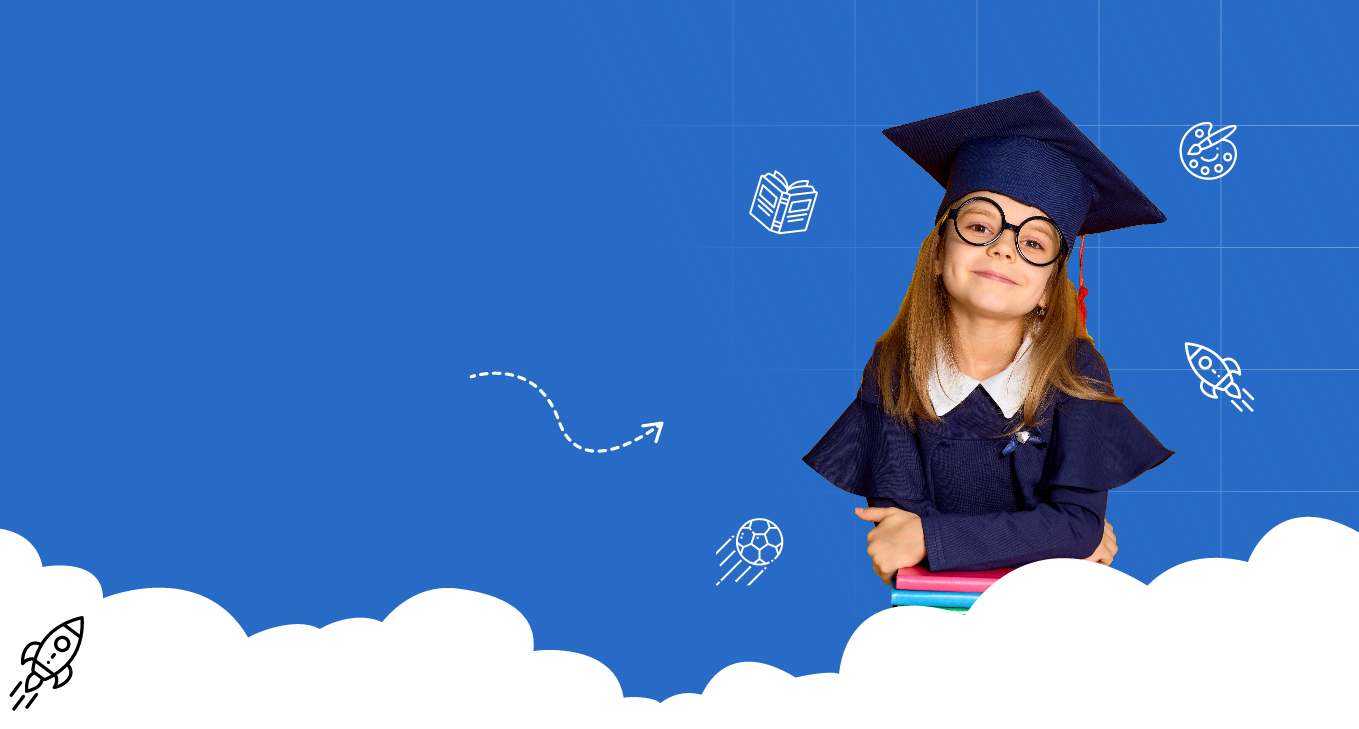
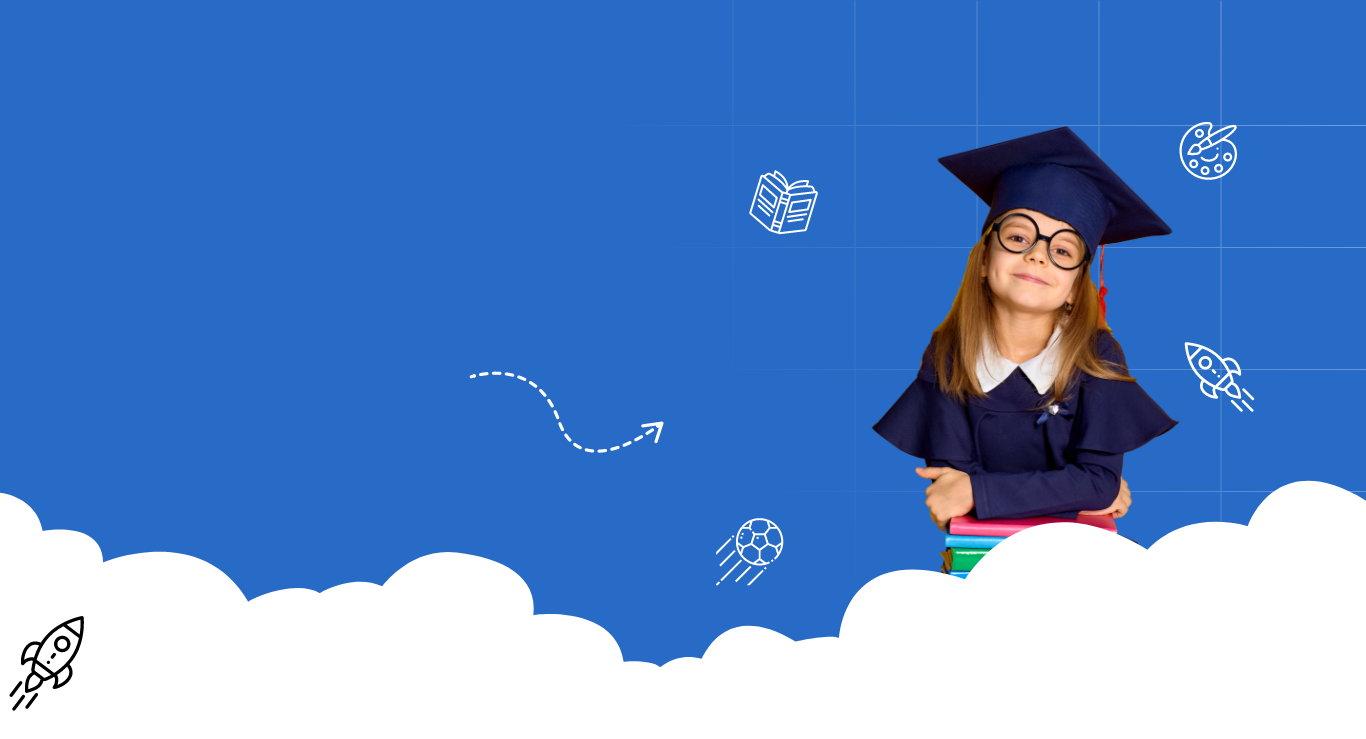
home,header and footer design

diff --git a/src/app/modules/home/home.component.scss b/src/app/modules/home/home.component.scss
@@ -1,38 +1,54 @@
-.navbar {
-    background-color: #fff;
-    position: fixed;
+// .navbar {
+//     background-color: #fff;
+//     position: fixed;
+//     width: 100%;
+//     z-index: 999999 !important;
+//     top: 0;
+// }
+
+// .navbar .navbar-nav .nav-link {
+//     margin-inline: 15px;
+//     color: #707070;
+//     border-bottom: solid 2px transparent;
+// }
+
+// .navbar .navbar-nav .nav-link:hover,
+// nav .navbar-nav .nav-link.active {
+//     margin-inline: 15px;
+//     color: var(--main-color);
+//     border-bottom: solid 2px var(--main-color);
+// }
+
+// .navbar nav .logo {
+//     width: 160px;
+//     height: 53px;
+// }
+
+#bg-home-section {
+    height: 100vh;
+    min-height: 705px;
+    display: flex;
+    flex-direction: column;
+    justify-content: center;
+}
+
+.home-banner {
     width: 100%;
-    z-index: 999999 !important;
-    top: 0;
+    background-image: url("../../../assets/images/home-page/Home-image.png");
+    background-repeat: no-repeat;
+    background-size: cover;
+    margin-top: 32px;
 }
 
-.navbar .navbar-nav .nav-link {
-    margin-inline: 15px;
-    color: #707070;
-    border-bottom: solid 2px transparent;
+.home-banner .home-discription-discription {
+    font-size: 1.1rem;
 }
 
-.navbar .navbar-nav .nav-link:hover,
-nav .navbar-nav .nav-link.active {
-    margin-inline: 15px;
+.home-banner .text-other {
     color: var(--main-color);
-    border-bottom: solid 2px var(--main-color);
 }
 
-.navbar nav .logo {
-    width: 160px;
-    height: 53px;
-}
-
-.azadi-logo {
-    width: 80px !important;
-}
-
-.swachh-bhara-logo {
-    width: 80px !important;
-}
-
-.btn-login {
+.home-banner .home-discription .btn-login {
     background-color: var(--main-color);
     border-radius: 30px;
     padding: 10px 36px !important;
@@ -46,38 +62,18 @@ nav .navbar-nav .nav-link.active {
     align-items: center;
 }
 
-.header h1 ,
+.home-banner h1,
 .ministers-information h1,
 .ministers h1,
-.about-section h1{
+.about-section h1 {
     font-size: 2.5rem;
     font-weight: 600;
-}
-
-.header {
-    width: 100%;
-    min-height: 100vh;
-    background-image: url("../../../assets/images/home-page/Home-image.png");
-    background-position: center center;
-    background-repeat: no-repeat;
-    background-size: cover;
-    margin-top: 32px;
-    display: flex;
-    flex-direction: column;
-    justify-content: center;
-}
-
-
-.header .header-discription {
-    font-size: 1.1rem;
-}
-
-.header .text-other {
-    color: var(--main-color);
+    color: #122361;
 }
 
 .ministers .plain-card {
-    box-shadow: 0 .5rem 1rem rgba(0, 0, 0, .15)!important;
+    box-shadow: -1px 1px 8px 4px rgba(0, 0, 0, 0.105)!important;
+    border-radius: 15px;
 }
 
 .ministers .card-body {
@@ -104,16 +100,7 @@ nav .navbar-nav .nav-link.active {
 .about-section,
 .ministers-information,
 .testimonials-section {
-    padding-block: 40px;
-}
-
-.about-section ol {
-    padding-left: 25px;
-} 
-
-.about-section ol li {
-    font-size: 1rem;
-    justify-content: right;
+    padding-block: 50px;
 }
 
 .about-section p {
@@ -123,7 +110,8 @@ nav .navbar-nav .nav-link.active {
 }
 
 .about-section .about-student-img {
-    height: 450px;
+    width: 100%;
+    margin-left: 21%;
 }
 
 .app-section {
@@ -238,20 +226,20 @@ footer .input-group button {
 }
 
 @media screen and (max-width: 480px) {
-    .header {
+    .home-banner {
         padding-top: 60px;
     }
 
-    .header h1 {
+    .home-banner h1 {
         font-size: 1.8rem;
         font-weight: 700;
     }
 
-    .header img {
+    .home-banner img {
         height: 200px;
     }
 
-    .header .header-discription {
+    .home-banner .home-banner-discription {
         font-size: 0.75rem;
     }
 
@@ -289,6 +277,7 @@ footer .input-group button {
         flex-direction: column;
         flex-grow: unset;
     }
+
     .btn-login {
         background-color: var(--main-color);
         border-radius: 30px;

diff --git a/src/app/modules/home/home.component.html b/src/app/modules/home/home.component.html
@@ -1,9 +1,9 @@
 <div class="p-0 bg-white">
-    <div class="header">
+    <div id="bg-home-section" class="home-banner">
         <div class="container">
-            <div class="row align-items-center justify-content-center">
-                <div class="col-sm-6">
-                    <div class="header-discription">
+            <div class="row">
+                <div class="col-sm-6 d-flex flex-column justify-content-center">
+                    <div class="home-discription">
                         <h4 class="text-muted mb-3">सारे शिकूया, पुढे जाऊया</h4>
                         <h1>एक एक अक्षर <span class="text-other">शिकूया</span>,</h1>
                         <h1><span class="text-other">ज्ञानाचा</span> शिखर चढूया</h1>
@@ -15,8 +15,7 @@
                             मोबाईल
                             अँप व वेब पोर्टल वरून ऑनलाईन रित्या करता येऊ शकते ह्या हेतूने हे ऑनलाईन
                             पोर्टल बनविले आहे.</p>
-                        <button
-                            class="btn-main btn btn-login  justify-content-center  d-flex align-items-center mx-auto mx-lg-0"
+                        <button class="btn-main btn btn-login d-flex justify-content-center align-items-center mx-auto mx-lg-0"
                             routerLink="/about-us">
                             अधिक वाचा
                         </button>
@@ -30,7 +29,7 @@
     </div>
     <div class="container">
         <div class="ministers-information">
-            <div class="row g-3 align-items-center">
+            <div class="row g-3 justify-content-center align-items-center">
                 <div class="col-sm-6">
                     <h1 class="mb-0 pe-5">Lorem Ipsum is simply dummy text of the printing and</h1>
                 </div>
@@ -58,6 +57,7 @@
                 </div>
             </div>
         </div>
+
         <div class="ministers">
             <div class="row g-3">
                 <div class="col-sm-3">
@@ -102,8 +102,9 @@
                 </div>
             </div>
         </div>
+
         <div class="about-section mx-0">
-            <div class="row gx-lg-1 text-start justify-content-center align-items-center">
+            <div class="row gx-lg-1 text-start align-items-center">
                 <div class="col-sm-6 col-12">
                     <h1>Lorem Ipsum is simply dummy text of the printing</h1>
                     <p class="text-muted">Lorem Ipsum is simply dummy text of the printing and typesetting industry.
@@ -115,8 +116,8 @@
                         अधिक वाचा
                     </button> -->
                 </div>
-                <div class="col-sm-6 col-12 d-flex justify-content-center mb-3 text-end">
-                    <img src="../../../assets/images/home-page/About-Image.png" alt="" class="about-student-img">
+                <div class="col-sm-6 col-12">
+                    <img src="../../../assets/images/home-page/About-Image.png"  class="about-student-img">
                 </div>
             </div>
         </div>

diff --git a/src/app/layouts/public/web-footer/web-footer.component.html b/src/app/layouts/public/web-footer/web-footer.component.html
@@ -13,11 +13,13 @@
                     <a routerLink="./help">Help</a>
                     <a routerLink="./privacy-policy">Privacy Policy</a>
                 </div> -->
-               
+
             </div>
             <div class="col-sm-3 col-6">
                 <ul>
-                    <li><h6 class=" mb-0">Explore</h6></li>
+                    <li>
+                        <h6 class=" mb-0">Explore</h6>
+                    </li>
                     <li><a href="#">Gallery</a></li>
                     <li><a href="#">News & Articles</a></li>
                     <li><a href="#">FAQ's</a></li>
@@ -27,7 +29,9 @@
             </div>
             <div class="col-sm col-6">
                 <ul>
-                    <li><h6 class=" mb-0">Links</h6></li>
+                    <li>
+                        <h6 class=" mb-0">Links</h6>
+                    </li>
                     <li><a routerLink="./home">Home</a></li>
                     <li><a routerLink="./about-us">About Us</a></li>
                     <li><a routerLink="./contact-us">Contact Us</a></li>
@@ -38,23 +42,24 @@
             </div>
             <div class="col-sm col-6">
                 <ul>
-                    <li><h6 class=" mb-0">Contact</h6></li>
+                    <li>
+                        <h6 class=" mb-0">Contact</h6>
+                    </li>
                     <li><a href="#">+91 9876543210</a></li>
                     <li><a href="#">con@gmail.com</a></li>
                     <li><a href="#">Shankarsheth Road,Swargate, Pune, 411037</a></li>
                 </ul>
             </div>
-            <div class="col-sm-12">
-                <div class="d-flex justify-content-between align-items-center">
-                    <p class="small mb-0 pt-0 mt-0">© {{currentYear}} Satara, All Rights Reserved.</p>
-                    <div class="footer-stpl-logo mx-auto mx-lg-0">
-                        <a class="nav-link" href="http://shauryatechnosoft.com" target="_blank">
-                            <span>Powered By -</span>
-                            <img src="assets/images/stplwhitelogo.svg" class="stpl-logo text-end">
-                        </a>
-                    </div>
-                </div>
+        </div>
+        <div class="sub-footer">
+            <p class="small mb-0 pt-0 mt-0">© {{currentYear}} Satara, All Rights Reserved.</p>
+            <div class="footer-stpl-logo mx-auto mx-lg-0">
+                <a class="nav-link" href="http://shauryatechnosoft.com" target="_blank">
+                    <span>Powered By -</span>
+                    <img src="assets/images/stplwhitelogo.svg" class="stpl-logo text-end">
+                </a>
             </div>
         </div>
     </div>
 </footer>
+    

diff --git a/src/app/layouts/public/web-header/web-header.component.html b/src/app/layouts/public/web-header/web-header.component.html
@@ -24,7 +24,7 @@
             </div>
         </div>
     </div>
-    <nav class="navbar p-2 navbar-expand-lg" id="navbar">
+    <nav class="navbar py-0 navbar-expand-lg" id="navbar">
         <div class="container">
             <a class="navbar-brand" href="#">
                 <img src="../../../../assets/images/ZpSatara-Logo.svg" width="80px" height="45px" class="logo">

diff --git a/src/app/layouts/public/web-footer/web-footer.component.scss b/src/app/layouts/public/web-footer/web-footer.component.scss
@@ -92,6 +92,13 @@ footer .input-group button {
     font-size: 1.4rem;
 }
 
+.sub-footer{
+    display: flex;
+    padding-top:10px;
+    justify-content: space-between;
+    border-top: 1px solid #35373781;
+}
+
 @media screen and (max-width: 480px) {
     .header {
         padding-top: 60px;
